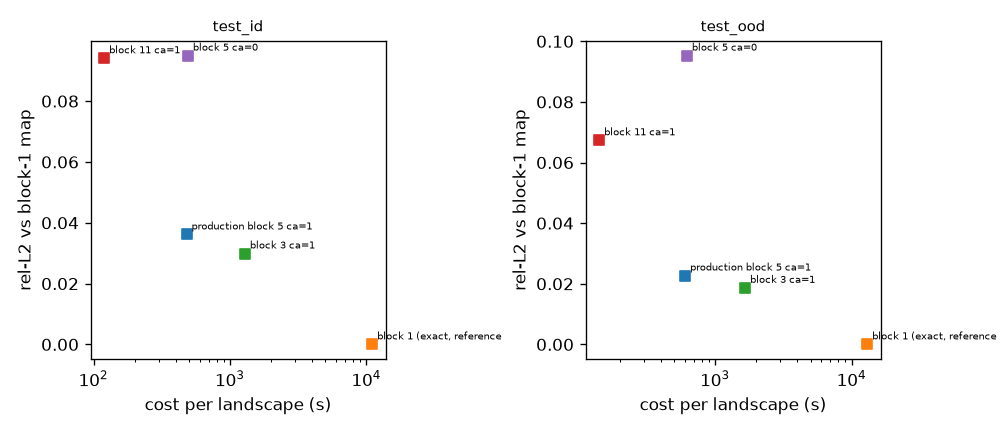
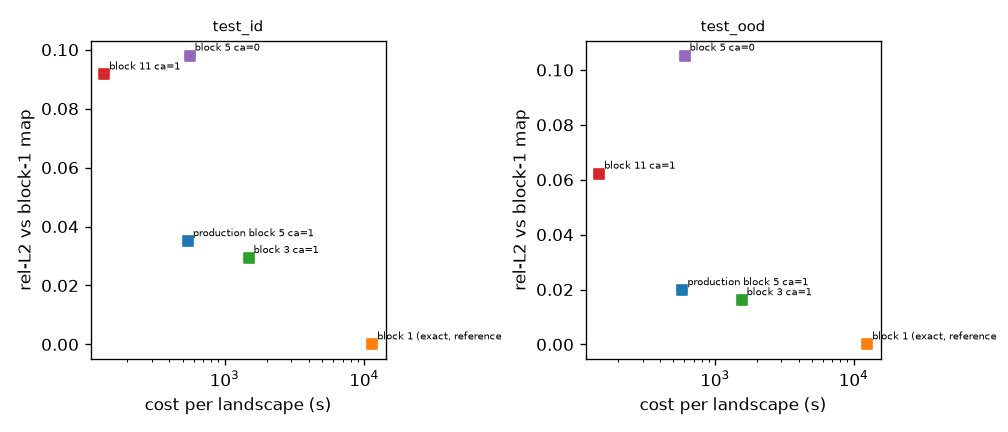
WP2: L block rows on the complete 20-sample batch; table and figure regenerated

diff --git a/docs/addendum_WP2_report.md b/docs/addendum_WP2_report.md
@@ -46,22 +46,23 @@ learned model on every split (no M-trained model exists yet — the learned rows
 - Spearman is ≥ 0.92 for every row including the worst — rank correlation cannot separate these baselines, which is why
   the harness reports rel-L2, non-source rel-L2 and top-q IoU as primary (WP3).
 
-## Tier L rows (interim, 2026-09-19: the first 13 synthetic samples of the L reference; `docs/tables/t4_pareto_L.md`, `docs/figures/t4_pareto_L.png`)
+## Tier L rows (2026-09-20: the first 20 synthetic samples of the L reference; `docs/tables/t4_pareto_L.md`, `docs/figures/t4_pareto_L.png`)
 
 | split | method | cost s | rel-L2 | ns rel-L2 | log-MAE | top-5 % IoU | pinch recall |
 |---|---|---|---|---|---|---|---|
-| test_id (9) | block 1 (exact) | 11 025 | 0 | 0 | 0 | 1 | 1 |
-| test_id | block 3, ca on | 1 288 | 0.030 | 0.037 | 0.010 | 0.960 | 0.922 |
-| test_id | **production block 5, ca on** | 480 | **0.036** | 0.048 | 0.021 | 0.951 | 0.936 |
-| test_id | block 5, ca off | 492 | 0.095 | 0.108 | 0.028 | 0.859 | 0.975 |
-| test_id | block 11, ca on | 120 | 0.094 | 0.125 | 0.058 | 0.867 | 0.781 |
-| test_ood (4) | production block 5, ca on | 603 | 0.023 | 0.047 | 0.064 | 0.966 | 0.976 |
-| test_ood | block 3 / block 11, ca on | 1 658 / 141 | 0.019 / 0.067 | 0.028 / 0.157 | 0.007 / 0.175 | 0.969 / 0.909 | 0.927 / 0.893 |
+| test_id (12) | block 1 (exact) | 11 400 | 0 | 0 | 0 | 1 | 1 |
+| test_id | block 3, ca on | 1 483 | 0.029 | 0.035 | 0.010 | 0.944 | 0.936 |
+| test_id | **production block 5, ca on** | 545 | **0.035** | 0.045 | 0.018 | 0.937 | 0.947 |
+| test_id | block 5, ca off | 561 | 0.098 | 0.108 | 0.026 | 0.800 | 0.978 |
+| test_id | block 11, ca on | 137 | 0.092 | 0.122 | 0.054 | 0.840 | 0.811 |
+| test_ood (8) | production block 5, ca on | 580 | 0.020 | 0.042 | 0.057 | 0.970 | 0.973 |
+| test_ood | block 3 / block 11, ca on | 1 553 / 145 | 0.016 / 0.062 | 0.030 / 0.146 | 0.007 / 0.166 | 0.976 / 0.909 | 0.957 / 0.886 |
+| test_ood | block 5, ca off | 602 | 0.105 | 0.175 | 0.063 | 0.899 | 0.988 |
 
-Same picture as M one tier up: the production rule (b/r 0.078 here) sits at 3.6 % for a 23× saving over the exact map;
+Same picture as M one tier up: the production rule (b/r 0.078 here) sits at 3.5 % for a 21× saving over the exact map;
 halving the block (3) buys 0.6 points of rel-L2 for 2.7× the cost; doubling it (11) loses 6 points for a 4× saving;
-the artefact correction is again worth ≈ 2.6× in rel-L2 at zero cost. Re-scored when the reference reaches 45–60
-samples (real tiles and ood_region are topped up as L real shards land).
+the artefact correction is again worth ≈ 2.8× in rel-L2 at zero cost. Re-scored once more when the reference reaches
+45–60 samples (real tiles and ood_region are topped up as L real shards land).
 
 ## Pending
 Learned-model rows (three-seed baselines after the GPU allocation); the L reference completion.

diff --git a/docs/tables/t4_pareto_L.md b/docs/tables/t4_pareto_L.md
@@ -2,13 +2,13 @@
 
 | split | method | n | cost s / landscape | rel_l2 | ns_rel_l2 | mae_log10eps | top5_iou | pinch_recall | spearman |
 |---|---|---|---|---|---|---|---|---|---|
-| test_id | block 1 (exact, reference) | 9 | 1.1e+04 | 0.0000 | 0.0000 | 0.0000 | 1.0000 | 1.0000 | 1.0000 |
-| test_id | block 3 (correct_artifacts=1) | 9 | 1.29e+03 | 0.0299 | 0.0373 | 0.0103 | 0.9597 | 0.9216 | 0.9993 |
-| test_id | block 5 (correct_artifacts=0) | 9 | 492 | 0.0950 | 0.1079 | 0.0281 | 0.8594 | 0.9750 | 0.9963 |
-| test_id | production block 5 (correct_artifacts=1) | 9 | 480 | 0.0361 | 0.0477 | 0.0205 | 0.9514 | 0.9360 | 0.9988 |
-| test_id | block 11 (correct_artifacts=1) | 9 | 120 | 0.0941 | 0.1252 | 0.0577 | 0.8673 | 0.7809 | 0.9943 |
-| test_ood | block 1 (exact, reference) | 4 | 1.3e+04 | 0.0000 | 0.0000 | 0.0000 | 1.0000 | 1.0000 | 1.0000 |
-| test_ood | block 3 (correct_artifacts=1) | 4 | 1.66e+03 | 0.0187 | 0.0282 | 0.0073 | 0.9694 | 0.9268 | 0.9997 |
-| test_ood | block 5 (correct_artifacts=0) | 4 | 622 | 0.0953 | 0.2322 | 0.0701 | 0.9241 | 0.9789 | 0.9957 |
-| test_ood | production block 5 (correct_artifacts=1) | 4 | 603 | 0.0227 | 0.0467 | 0.0637 | 0.9660 | 0.9758 | 0.9970 |
-| test_ood | block 11 (correct_artifacts=1) | 4 | 141 | 0.0673 | 0.1568 | 0.1745 | 0.9093 | 0.8934 | 0.9890 |
+| test_id | block 1 (exact, reference) | 12 | 1.14e+04 | 0.0000 | 0.0000 | 0.0000 | 1.0000 | 1.0000 | 1.0000 |
+| test_id | block 3 (correct_artifacts=1) | 12 | 1.48e+03 | 0.0293 | 0.0349 | 0.0095 | 0.9436 | 0.9362 | 0.9970 |
+| test_id | block 5 (correct_artifacts=0) | 12 | 561 | 0.0980 | 0.1081 | 0.0261 | 0.7995 | 0.9783 | 0.9805 |
+| test_id | production block 5 (correct_artifacts=1) | 12 | 545 | 0.0350 | 0.0452 | 0.0180 | 0.9371 | 0.9470 | 0.9965 |
+| test_id | block 11 (correct_artifacts=1) | 12 | 137 | 0.0916 | 0.1219 | 0.0537 | 0.8398 | 0.8110 | 0.9844 |
+| test_ood | block 1 (exact, reference) | 8 | 1.25e+04 | 0.0000 | 0.0000 | 0.0000 | 1.0000 | 1.0000 | 1.0000 |
+| test_ood | block 3 (correct_artifacts=1) | 8 | 1.55e+03 | 0.0161 | 0.0304 | 0.0071 | 0.9759 | 0.9572 | 0.9997 |
+| test_ood | block 5 (correct_artifacts=0) | 8 | 602 | 0.1052 | 0.1748 | 0.0634 | 0.8991 | 0.9880 | 0.9956 |
+| test_ood | production block 5 (correct_artifacts=1) | 8 | 580 | 0.0198 | 0.0417 | 0.0569 | 0.9704 | 0.9733 | 0.9969 |
+| test_ood | block 11 (correct_artifacts=1) | 8 | 145 | 0.0622 | 0.1455 | 0.1655 | 0.9088 | 0.8858 | 0.9886 |
